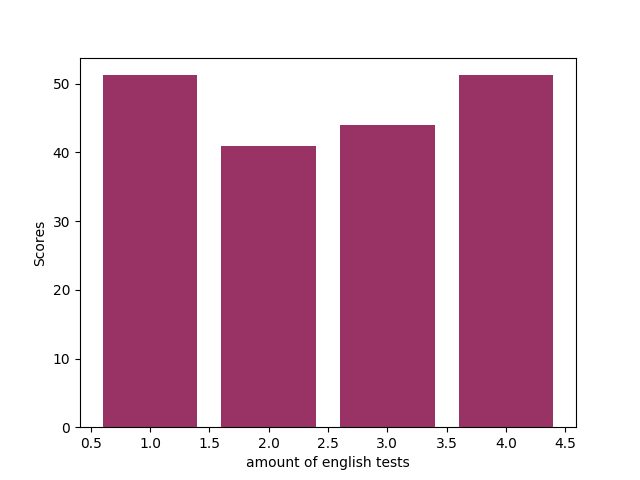
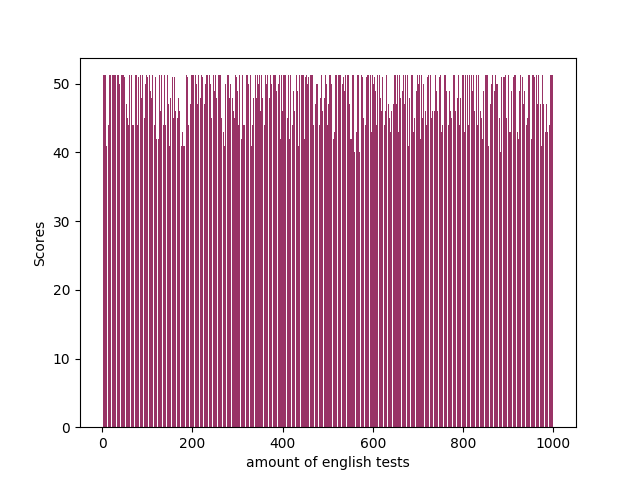
...

Changed region(s): [[0.1562, 0.1562, 0.875, 0.9375], [0.8438, 0.9062, 0.9062, 0.9375], [0.125, 0.9062, 0.1875, 0.9375]]

diff --git a/Test_Sim_Data/test_sim_data.py b/Test_Sim_Data/test_sim_data.py
@@ -1,7 +1,7 @@
 # Name: Justin Lin -- Title of simulation: Simulation and Data Sets
 # Date: 1/13/2019
 # Description:
-# Source: none
+# Source: https://stackoverflow.com/questions/9622163/save-plot-to-image-file-instead-of-displaying-it-using-matplotlib
 
 
 #Option #1:
@@ -75,7 +75,7 @@ def Assessment_scores(amount_of_test, subject, affinity):
 				highest_possible = 5.1
 				duration_of_studying = r.uniform(1,2.5)
 			grade = r.uniform(lowest_possible, highest_possible)
-			studying_multiplyer = (grade*(1+0.05)**(duration_of_studying))//1
+			studying_multiplyer = (grade*(1+0.05)**(duration_of_studying))
 			if studying_multiplyer > 5.1:
 				studying_multiplyer = 5.1
 			test_score.append(studying_multiplyer)
@@ -143,7 +143,7 @@ def english(n, affinity):
 	mat.savefig("english_test_bar_charts.png")
 	mat.show()
 
-math(9, "great")
-english(4, "great")
-computer_science(1, "normal")
-spanish(11, "normal")
+math(1000, "great")
+english(1000, "great")
+computer_science(1000, "normal")
+spanish(1000, "normal")
